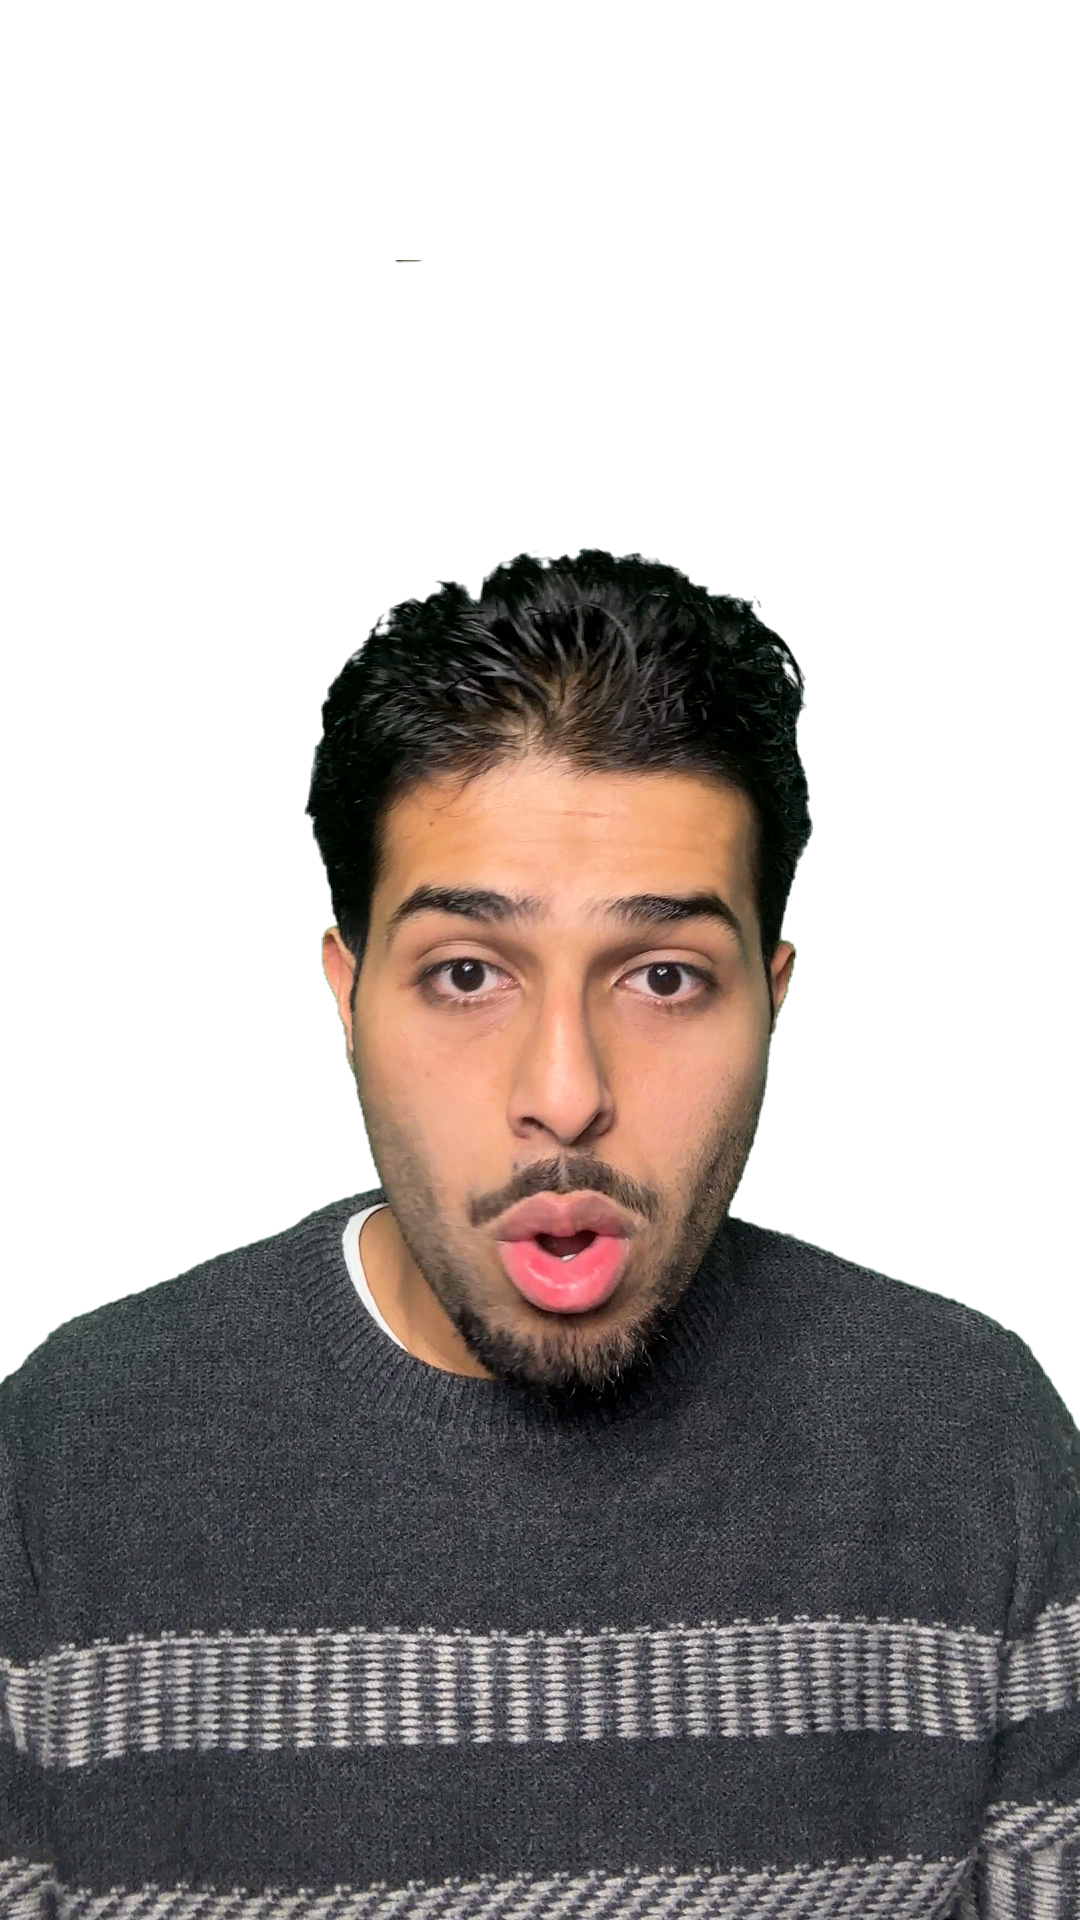
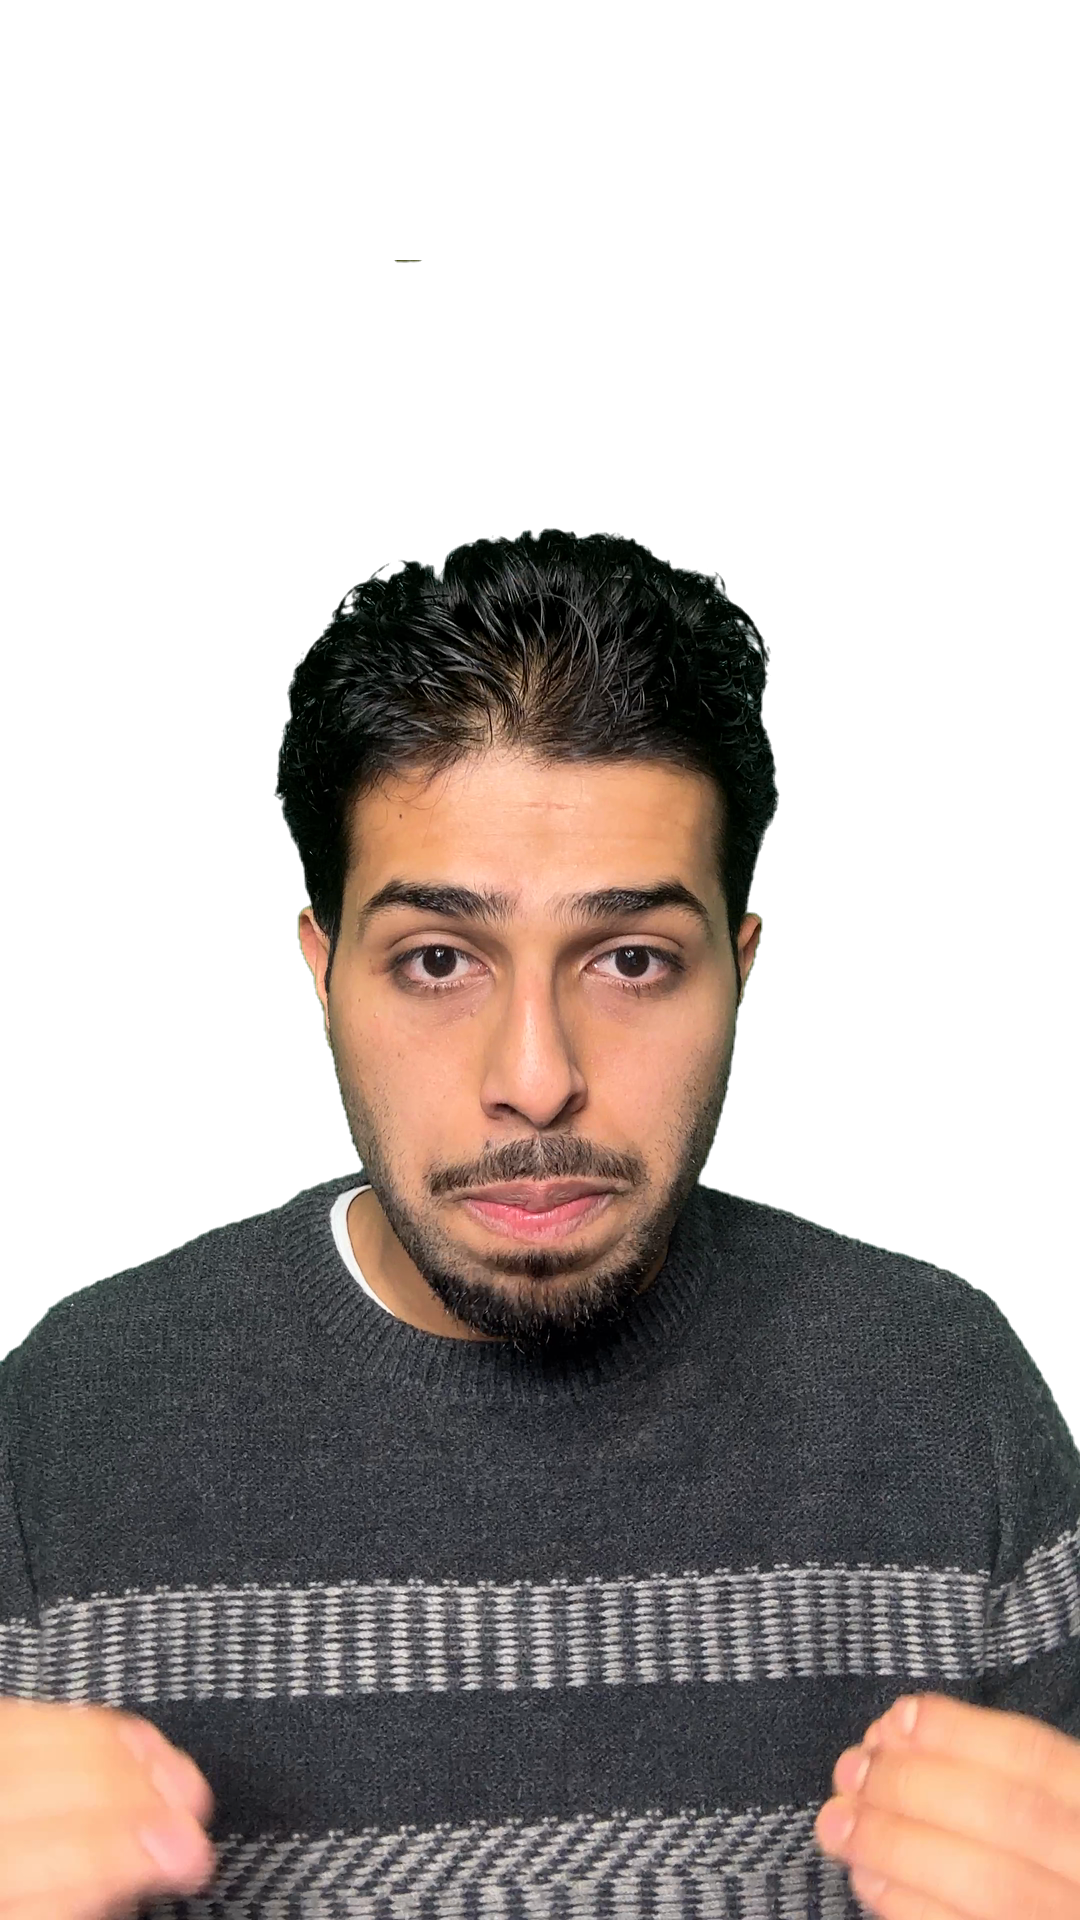
Thumbnail: closed-mouth face

Changed region(s): [[0.0, 0.25, 1.0, 1.0]]

diff --git a/editor/src/Thumbnail.tsx b/editor/src/Thumbnail.tsx
@@ -7,7 +7,7 @@ import { C, MONO, SANS } from "./theme";
 export const Thumbnail: React.FC = () => (
   <AbsoluteFill>
     <FaceBg />
-    {/* you, mid "no subscription" */}
+    {/* you, eyebrow raised, mouth shut */}
     <Img src={staticFile("thumb_face.png")} style={{
       position: "absolute", left: "50%", top: 110, width: 1080 * 1.18,
       transform: "translateX(-50%)", filter: "drop-shadow(0 30px 60px rgba(0,0,0,0.55))",
